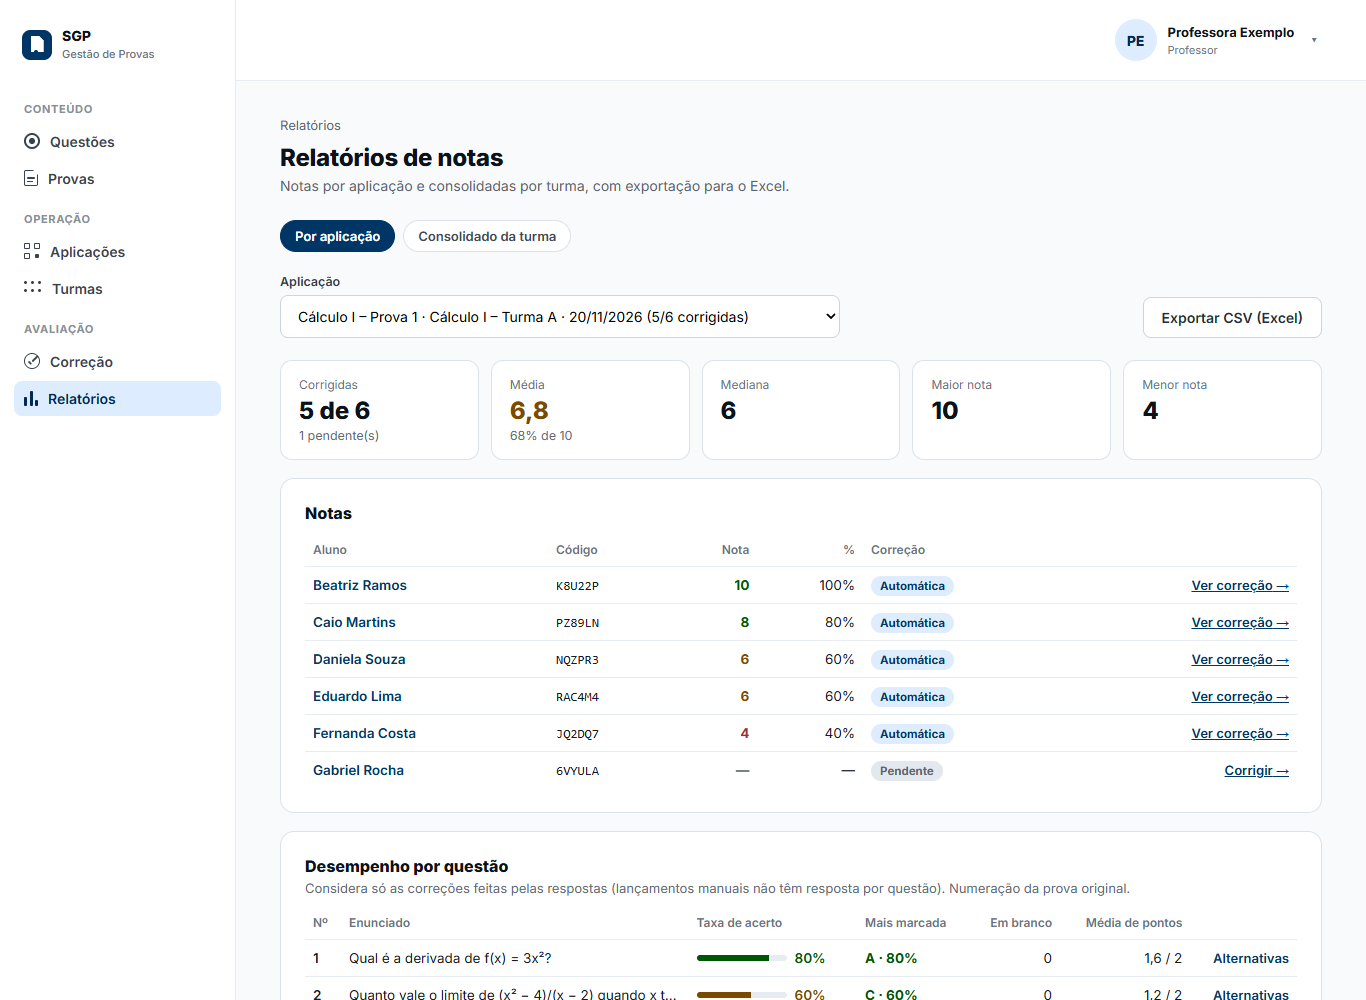
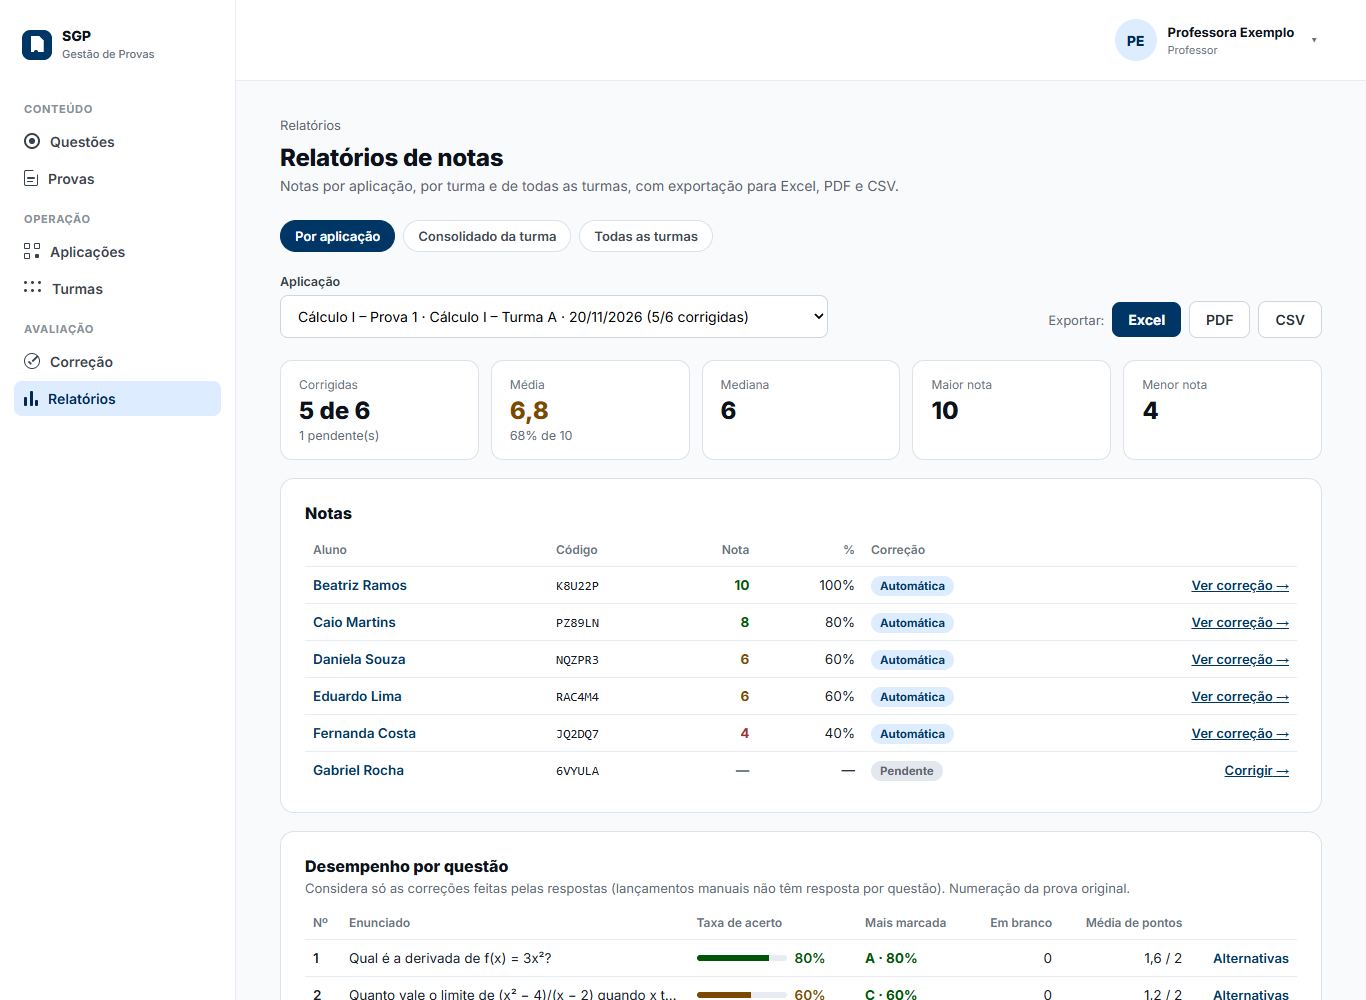
docs(t61): relatorios com exportacao em Excel, PDF e CSV
O #106 (T66) trocou o botao Exportar CSV por Excel, PDF e CSV e criou
a aba Todas as turmas. Atualiza o capitulo 10 com a aba nova e os tres
formatos, e recaptura as telas 12 e 14 (24 nova).

Changed region(s): [[0.3075, 0.186, 0.5842, 0.248], [0.7687, 0.279, 0.9531, 0.341], [0.6457, 0.992, 0.6764, 1.0]]

diff --git a/docs/manual-usuario.md b/docs/manual-usuario.md
@@ -379,7 +379,19 @@ Na aba **Consolidado da turma**, escolha a turma. A tabela cruza os **alunos** c
 
 ![Consolidado da turma: alunos por aplicação e médias](manual/img/14-relatorio-turma.png)
 
-**Exportar CSV (Excel)**, nas duas abas, baixa a tabela para abrir no Excel.
+### Todas as turmas
+
+A aba **Todas as turmas** não mostra tabela na tela: serve para baixar de uma vez as notas de todas as suas turmas.
+
+![Exportação das notas de todas as turmas](manual/img/24-relatorio-todas.png)
+
+### Exportar
+
+Nas três abas, os botões ao lado de **Exportar** baixam o relatório que está na tela:
+
+- **Excel**: planilha pronta para abrir no Excel. Em *Todas as turmas*, vem com uma aba com todas as notas e uma aba por turma;
+- **PDF**: para imprimir ou enviar;
+- **CSV**: a lista simples, para importar em outro sistema.
 
 ### Histórico do aluno
 
